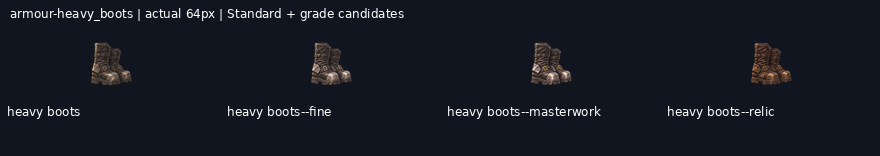
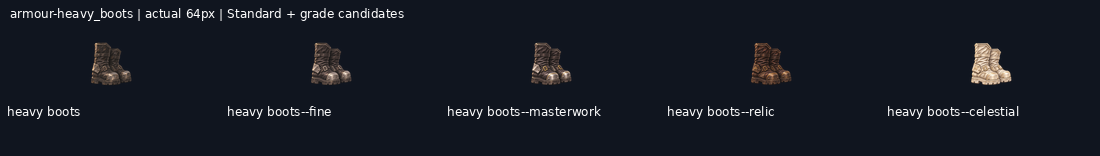
art: draw armour-heavy_boots--celestial grade candidate

diff --git a/art/_archive/gear/2026-11-19-kept-blade-grades/HANDOFF.md b/art/_archive/gear/2026-11-19-kept-blade-grades/HANDOFF.md
@@ -1,6 +1,6 @@
 # Gear grade candidates
 
-**112/120 grade candidates delivered** on `art/2026-11-19-kept-blade-grades`. Shared mailbox: https://github.com/leonpentastorm/Project-Heaven-Cry/issues/3 . See claim.json for this lane’s current Standards. Released overlapping blades reuse12 peer candidates, with3 local alternatives archived.
+**113/120 grade candidates delivered** on `art/2026-11-19-kept-blade-grades`. Shared mailbox: https://github.com/leonpentastorm/Project-Heaven-Cry/issues/3 . See claim.json for this lane’s current Standards. Released overlapping blades reuse12 peer candidates, with3 local alternatives archived.
 
 Leon requested continuous candidate production; proof approval is not fabricated. All candidates remain review-candidate, production_approved:false, implementation_ready:false, with outline.review_required:true. Exact outline is measured, never asserted unless the masks match. Per-image registration is uniform scaling/translation only, without warp, silhouette masks, filled pixels or code-drawn substitutes. The generated native remains untouched.
 
@@ -10,12 +10,12 @@ Tomorrow: fetch this branch and develop safely, read the latest issue 3 comments
 
 Peer audit: [coordination/peer-audit-2026-11-19.md](coordination/peer-audit-2026-11-19.md). Peer58 masters/232 exports and12 canonical imports were checked. Faint alpha<8 margin residue requires versioned technical cleanup; check its subsequent correction manifest before claiming that cleanup is complete. Peer quota resets20 November2026 at09:45:39 Bangkok time; this does not establish this session’s quota.
 
-Remaining: weapon-ork_machete--masterwork, weapon-ork_machete--relic, weapon-ork_machete--celestial, weapon-war_axe--fine, weapon-war_axe--masterwork, weapon-war_axe--relic, weapon-war_axe--celestial, armour-heavy_boots--celestial.
+Remaining: weapon-ork_machete--masterwork, weapon-ork_machete--relic, weapon-ork_machete--celestial, weapon-war_axe--fine, weapon-war_axe--masterwork, weapon-war_axe--relic, weapon-war_axe--celestial.
 
 Service-rejected requests (do not repeatedly resubmit): weapon-ork_machete--masterwork, weapon-war_axe--fine.
 
 Waiting on rejected prerequisites: weapon-ork_machete--celestial, weapon-ork_machete--relic, weapon-war_axe--celestial, weapon-war_axe--masterwork, weapon-war_axe--relic.
 
-Ready independent next steps, in queue order: armour-heavy_boots--celestial. Other pending grades follow their preceding grade.
+Ready independent next steps, in queue order: . Other pending grades follow their preceding grade.
 
 Runtime handoff: implementation_ready:false records review status but does not gate the web asset builder. The builder emits grade asset keys; the current UI gear resolver still needs grade-aware selection. Do not claim that runtime grade selection is implemented by these art deliveries.
